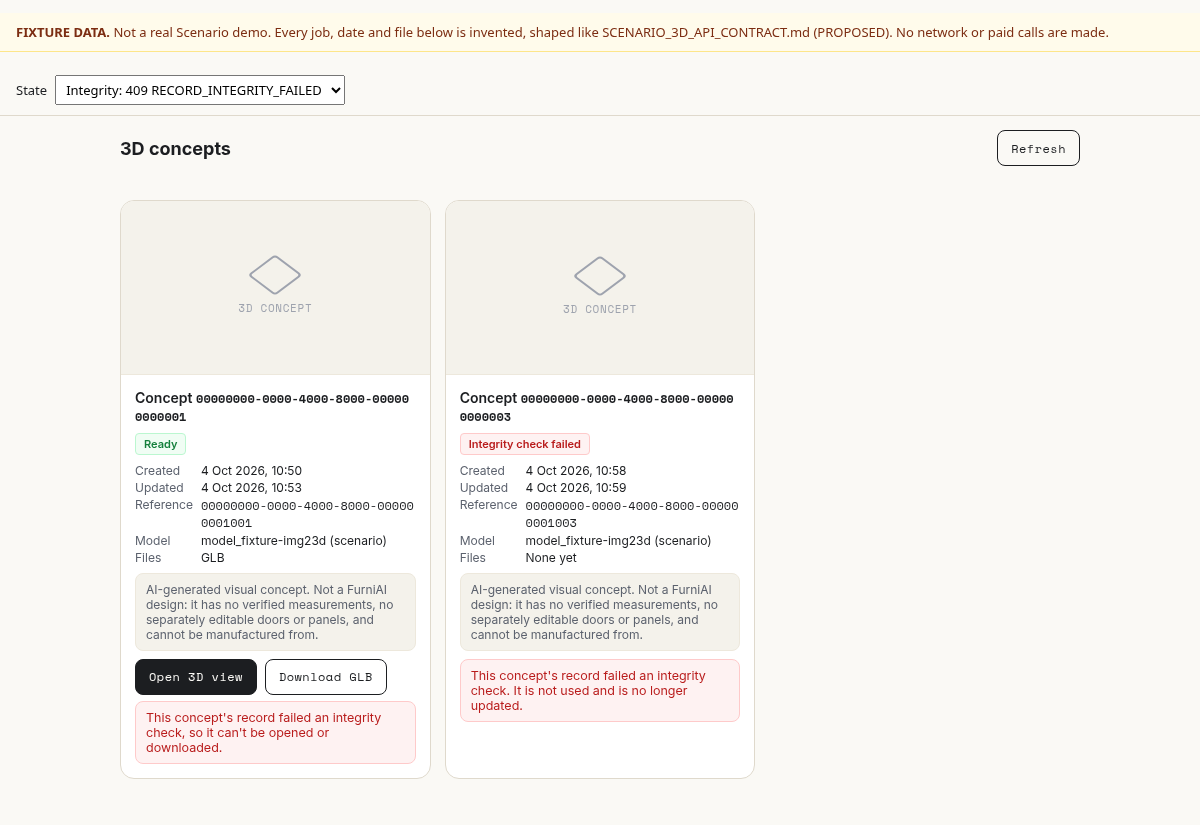
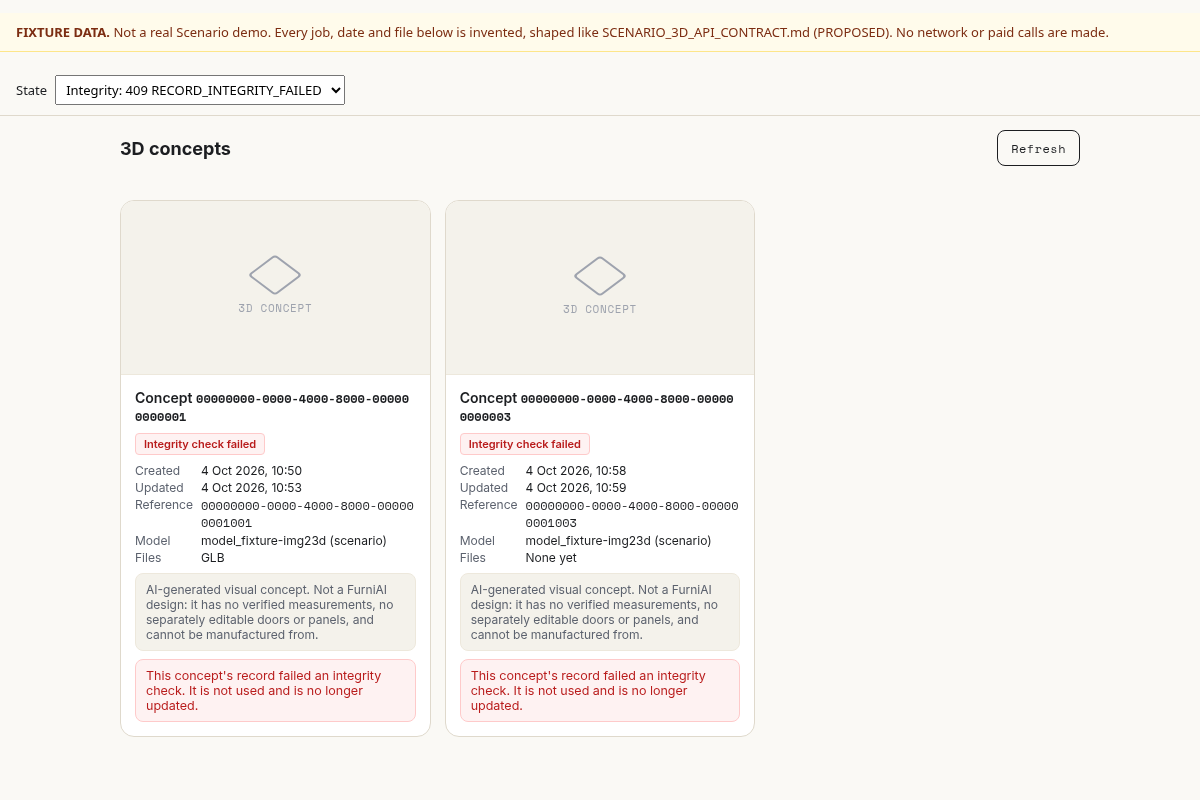
docs(projects): QE G1/G2 fixes, vitest include proposal, 13-integrity screenshot
CONCEPT_GALLERY.md: states table and URL rules for the G1/G2 behaviour,
"Running the tests" with the proposed root include line and the rule to delete
src/lib/projects/conceptGallery/conceptGallery.collect.test.js in the same
integration commit, and the three QE acceptance tests to update.
capture.mjs waits for the two job errors; 13-integrity-409.png re-shot (the
downloaded card is now integrity-failed too). Other screenshots byte-identical.

diff --git a/docs/m3/projects/CONCEPT_GALLERY.md b/docs/m3/projects/CONCEPT_GALLERY.md
@@ -85,12 +85,13 @@ mountConceptGallery(root, {
 | signed out | no token, `401 MISSING_AUTH`, or v2 `SIGN_IN_REQUIRED` | "Sign in to see your 3D concepts." Polling stops |
 | network | rejection without status | message + Try again |
 | 5xx | `≥ 500` | message + Try again (server text is not shown) |
+| asset: 5xx / network | `≥ 500` or no status on Open or Download | "FurniAI couldn't get this file right now. Try again in a moment." (network: "…check your connection"). Never suggests the other button, because it would fail the same way (QE G2). Download retries once first; the card stays Ready |
 | not configured | `503 *_NOT_CONFIGURED` / v2 `CONCEPTS_NOT_CONFIGURED` | "3D concepts aren't available on this deployment yet." |
 | asset: not ready | `409 ASSET_NOT_READY` | message; the job is re-checked once |
-| asset: unavailable | `410 ASSET_UNAVAILABLE` | "no longer available … no stored copy" |
-| integrity | `409 RECORD_INTEGRITY_FAILED` | message; on `getJob` the badge becomes "Integrity check failed" and that job stops polling |
-| job gone | `404 MISSING_JOB` while polling | "This concept no longer exists." It stops polling |
-| viewer | `ASSET_DISPLAY_FAILED` or a viewer start failure | "couldn't show this file. Downloading it may still work." Download stays available |
+| asset: unavailable | `410 ASSET_UNAVAILABLE` | "no longer available … no stored copy" on **that file only**. The card keeps its server status (Ready) and its other outputs. Nothing is retried automatically; a user click is one more honest asset call. The record is intact and contract §2.5 makes 410 about the file, so it is not treated like integrity |
+| integrity | `409 RECORD_INTEGRITY_FAILED` from `getJob` **or from Open/Download** | the card becomes job-errored: badge "Integrity check failed", the job message, **no Open, no Download**, never polled. One path for poll and asset (QE G1). The next list refresh drops the row if the server still refuses it |
+| job gone | `404 MISSING_JOB` while polling or from Open/Download | badge "Not found", "This concept no longer exists.", no Open/Download, no polling |
+| viewer | `ASSET_DISPLAY_FAILED` or another viewer-side code | "The 3D view couldn't show this file. Downloading it may still work." This is the **only** message that points at Download. Download stays available |
 
 Accessibility: the region is a `section` labelled by its heading, and each card is an `article`.
 Badges carry text, so colour is never the only signal. There is a `role=status` live region and
@@ -122,6 +123,9 @@ is honoured.
   `ASSET_NOT_READY`, `ASSET_UNAVAILABLE`, `RECORD_INTEGRITY_FAILED`, `MISSING_JOB`, 400 and 401
   are not retried.
 - Only `glb`/`gltf` get "Open 3D view". Every other format, and `null`, is download-only.
+- A failed Open or Download goes through one function, `afterAssetFailure()` in
+  `mountConceptGallery.js`. Integrity or missing-job → the job error, as in polling.
+  `ASSET_NOT_READY` → one job re-check. Everything else stays on that file.
 
 ## 6. Viewer alignment (Asset Engineer, v2 at 42c3fa6)
 
@@ -164,9 +168,14 @@ The bundle imports no client, no viewer and no fixtures. Mounting needs the asse
 
 ## 9. Tests and evidence
 
-- `npx vitest run --config tests/projects/vitest.config.js` runs 7 files and 73 tests. The root
-  `npx vitest run` collects them through `conceptGallery.collect.test.js`. All hooks are scoped
-  inside `describe()`, so fake timers and stubs don't leak.
+- `npx vitest run --config tests/projects/vitest.config.js` runs 8 files and 90 tests. The root
+  `npx vitest run` collects them through `conceptGallery.collect.test.js` (see "Running the tests"
+  below). All hooks are scoped inside `describe()`, so fake timers and stubs don't leak.
+- `assetFailures.test.js` covers QE G1 and G2: integrity or missing-job from Download, from Open
+  through the viewer, and from `onOpenConcept`'s `resolveUrl()`. It also covers the lock across
+  refresh, multi-output, 410 per file, late results after `destroy()`, and the Open and Download
+  5xx/network/not-configured wording. The fake viewer handle is shared in
+  `tests/projects/fixtures/fakeViewer.js`.
 - `fixtureShape.test.js` pins the fixtures to the contract and does not depend on the handler.
 - **`creativeContract.test.js` (committed)** runs the real `api/creative.js` on this branch
   in-process, with fake req/res objects, the memory store, and an in-memory provider stand-in in
@@ -186,6 +195,38 @@ The bundle imports no client, no viewer and no fixtures. Mounting needs the asse
   It uses **fixture data only**, with the real source over a fixture fetch and no viewer mounted.
   `node docs/m3/projects/demo/capture.mjs [--update]` writes 13 states plus a 390 px view to
   `docs/m3/projects/artifacts/`.
+
+### Running the tests
+
+The root `vitest.config.js` include list (Integration-owned) does not cover `tests/projects/**`.
+Until it does, the collector **`src/lib/projects/conceptGallery/conceptGallery.collect.test.js`**
+imports every suite, so they run from the root. Proposed line for CraZy, added to `test.include`
+in the root `vitest.config.js` after `"tests/contract/**/*.test.js",`:
+
+```js
+      "tests/projects/**/*.test.js",
+```
+
+**Delete the collector in the same integration commit that adds this line.** Otherwise every
+concept-gallery suite runs twice from the root (no failure, just duplicates). Until then, keep the
+collector and don't add the line on its own.
+
+### QE review fixes (after 34f80a7)
+
+- **G1:** after Open or Download returns `409 RECORD_INTEGRITY_FAILED`, the card no longer shows
+  Ready with Open and Download. It becomes "Integrity check failed" with no Open or Download, the
+  same as the polling path. `404 MISSING_JOB` gets the same treatment ("Not found"), also matching
+  polling. `410 ASSET_UNAVAILABLE` stays per file (see §3).
+- **G2:** a 5xx, network or not-configured failure on Open now uses the same honest message as
+  Download ("FurniAI couldn't get this file right now. Try again in a moment.") and no longer says
+  "Downloading it may still work". That hint is kept only for real display failures. The Download
+  5xx wording was checked: it was already honest and is unchanged.
+- QE acceptance (`tests/acceptance/scenario/galleryViewer.acceptance.test.js` @ 687f20a) needs
+  three updates when it takes this fix. Flip the `it.fails` "KNOWN_DEFECT G1 …" to `it`. In
+  "CURRENT_BEHAVIOUR Open does NOT retry a transient resolve failure (502)", expect
+  `MSG.serverAsset`, not `MSG.displayFailed`. In "RECORD_INTEGRITY_FAILED is never rendered as a
+  usable asset", the Download click after the failed Open is gone: the button no longer exists,
+  so assert it is `null`.
 
 ## 10. Open questions
 
